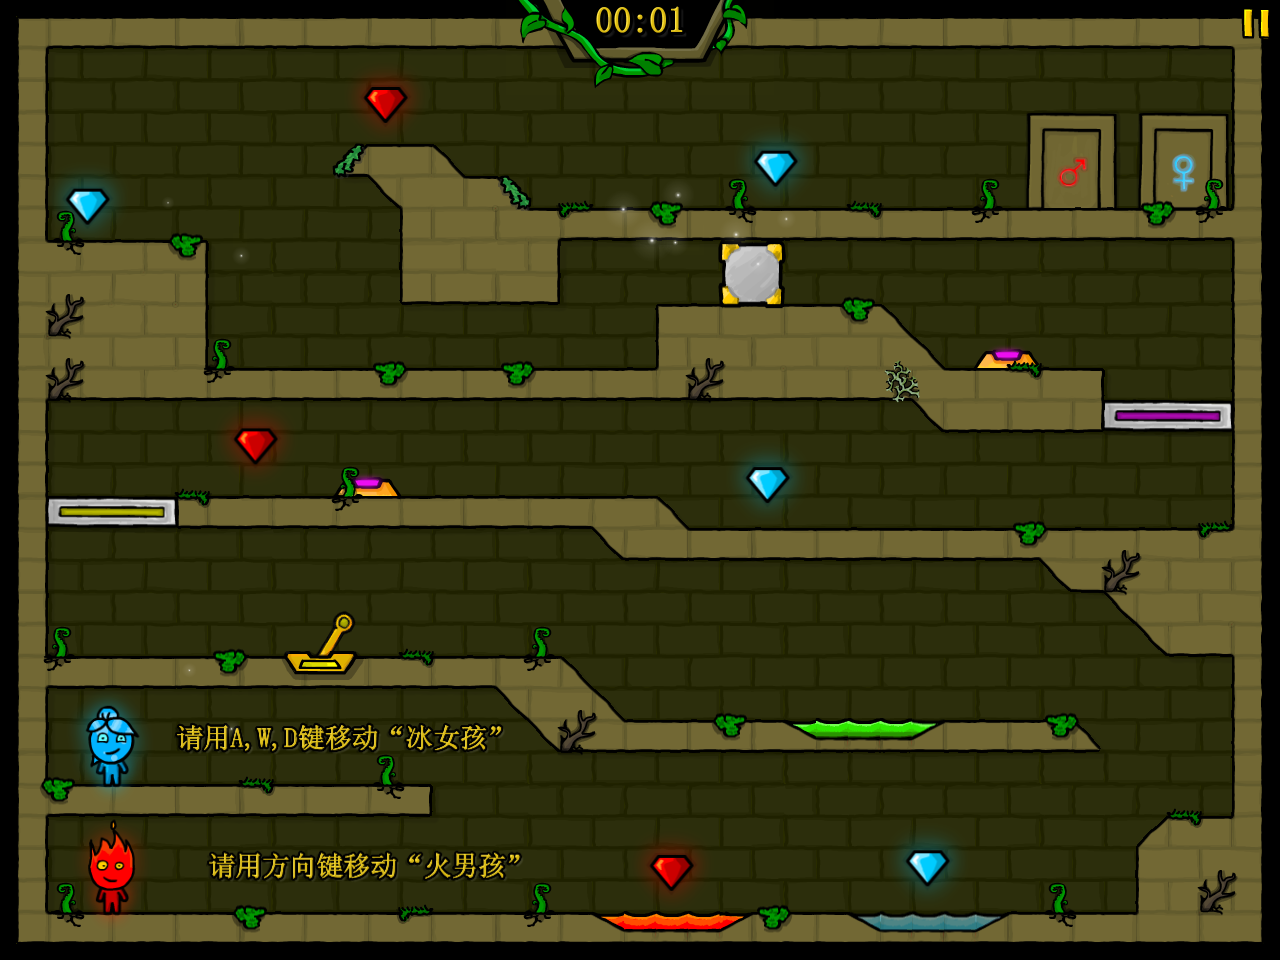
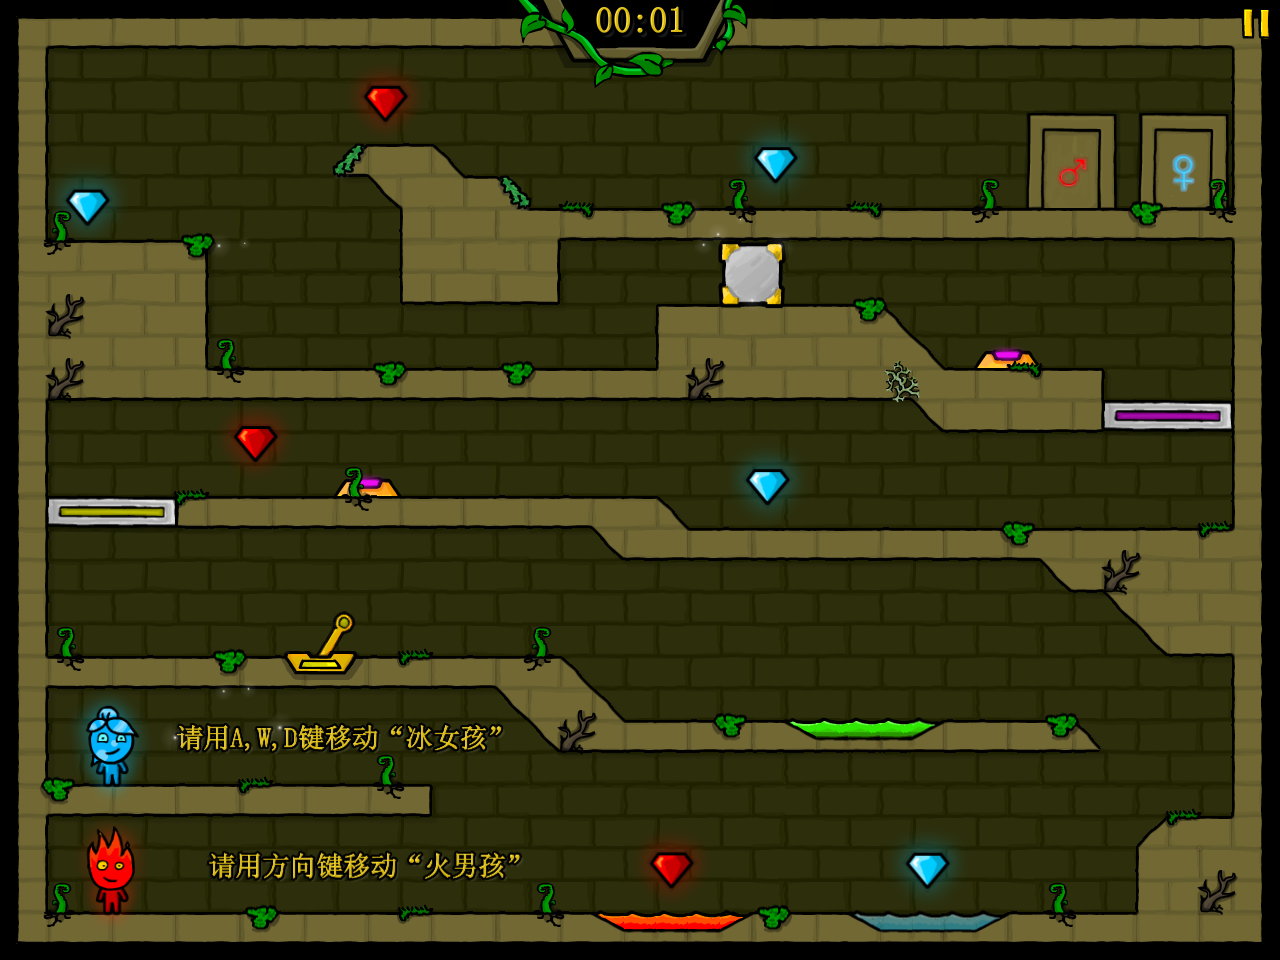
fix(client): 门定位/钻石浮动带/glow 移除/教学文字对齐原版（0.3.19）
- 门：定位图块左上 + anchor.y=0.99（原 0.5 居中致整扇门偏右 65px）
- 钻石浮动带回中心 ±5px；关卡内 glow 移除（原版关卡内无光晕）
- 教学文字 wordWrap+居中+19px；触发改任一角色入框
- 验证：83/83 + typecheck + build + e2e PASS；视觉 94.4-95.0 波动带

diff --git a/gyのFW/packages/client/src/scenes/GameScene.ts b/gyのFW/packages/client/src/scenes/GameScene.ts
@@ -380,9 +380,10 @@ export class GameScene extends Phaser.Scene {
         .image(d.x + PAD, d.y + PAD - 5, ATLAS_CHARS, DIAMOND_FRAME[d.kind])
         .setOrigin(0.5)
         .setDepth(1);
+      // 原版浮动带 = 中心 ±5px（38380-38393：sprite.y=-5 → tween y:+5）
       this.tweens.add({
         targets: img,
-        y: img.y - 10,
+        y: img.y + 10,
         duration: 2000,
         yoyo: true,
         repeat: -1,
@@ -523,9 +524,10 @@ export class GameScene extends Phaser.Scene {
     const frameOf: Record<Role, string> = { fireboy: "FinishBoy0000", watergirl: "FinishGirl0000" };
     for (const role of ROLES) {
       const r = level.doors[role];
+      // 原版 Door（38427-38440）：sprite 定位图块左上、底边+4，仅设 anchor.y=0.99（x 默认 0=左缘对齐）
       const s = this.add
-        .sprite(r.x + r.w / 2 + PAD, r.y + r.h + 4 + PAD, ATLAS_TEMPLE, frameOf[role])
-        .setOrigin(0.5, 0.99)
+        .sprite(r.x + PAD, r.y + r.h + 4 + PAD, ATLAS_TEMPLE, frameOf[role])
+        .setOrigin(0, 0.99)
         .setScale(0.8)
         .setDepth(0.5);
       this.doorSprites.set(role, s);
@@ -667,15 +669,17 @@ export class GameScene extends Phaser.Scene {
     for (const step of level.tutorials) {
       if (!step.text || !step.textRect) continue;
       const text = this.add
-        .text(step.textRect.x + PAD, step.textRect.y + PAD, step.text, {
+        .text(step.textRect.x + PAD + step.textRect.w / 2, step.textRect.y + PAD, step.text, {
           fontFamily: 'Georgia, "KaiTi", "STKaiti", "SimSun", serif',
-          fontSize: "21px",
+          fontSize: "19px",
           color: "#efe6b0",
           stroke: "#241d0e",
           strokeThickness: 2,
           fontStyle: "bold",
+          wordWrap: { width: step.textRect.w, useAdvancedWrap: true },
+          align: "center",
         })
-        .setOrigin(0, 0)
+        .setOrigin(0.5, 0)
         .setDepth(0.8)
         .setVisible(false)
         .setAlpha(0);
@@ -684,11 +688,12 @@ export class GameScene extends Phaser.Scene {
   }
 
   /** 教学渐显判定（冻结偏离 #4：按本机角色；原版=任一角色进矩形，结构上可直接扩展） */
-  private updateTutorial(x: number, y: number): void {
+  private updateTutorial(...points: Array<{ x: number; y: number }>): void {
     for (const item of this.tutorialItems) {
+      const hit = points.some((p) => p.x >= item.trigger!.x && p.x <= item.trigger!.x + item.trigger!.w && p.y >= item.trigger!.y && p.y <= item.trigger!.y + item.trigger!.h);
       const r = item.trigger;
       if (!r) continue;
-      const inside = x >= r.x && x <= r.x + r.w && y >= r.y && y <= r.y + r.h;
+      const inside = points.some((p) => p.x >= r.x && p.x <= r.x + r.w && p.y >= r.y && p.y <= r.y + r.h);
       if (inside && !item.shown) {
         item.shown = true;
         item.text.setVisible(true).setAlpha(0);
@@ -802,10 +807,12 @@ export class GameScene extends Phaser.Scene {
     this.updatePlatformSound(st);
 
     // 教学渐显按本机角色（传世界坐标=快照中心+PAD，与触发矩形同域）
-    const myPs = this.myRole ? st.players?.get?.(this.myRole) : null;
-    if (myPs && myPs.dying !== true) {
-      this.updateTutorial((Number(myPs.x) || 0) + PAD, (Number(myPs.y) || 0) + PAD);
+    const pts: Array<{ x: number; y: number }> = [];
+    for (const role of ["fireboy", "watergirl"] as const) {
+      const ps = st.players?.get?.(role);
+      if (ps && ps.dying !== true) pts.push({ x: (Number(ps.x) || 0) + PAD, y: (Number(ps.y) || 0) + PAD });
     }
+    if (pts.length > 0) this.updateTutorial(...pts);
 
     this.updateNavies();
     this.snapPending = false;

diff --git a/gyのFW/note/report/perf/2026-10-06-fidelity-benchmark.md b/gyのFW/note/report/perf/2026-10-06-fidelity-benchmark.md
@@ -343,3 +343,21 @@ gzip 实测 −76%；物理指数 84.53（复跑确认）+ 视觉 94.97（visual
 - **D7 dark 分支**：星级公式补 dark=限时内?3:2（潜伏防御）；
 - **冰面机制定案**：森林 48 关雪瓦 0 使用、无光源——原版冰面全链在森林为不可达代码，
   我方省略与数据一致（细节见审计记录），SLOPE_REMAP 防御项留待后续。
+
+## 二十四、渲染细节批（R22：GameScene 渲染审计 11 项中的 6 项落地）
+
+渲染细节审计（11 项偏差）中的低成本高感知项本轮落地：
+
+- **D1 门水平定位**：原版 Door sprite 定位图块左上、仅设 anchor.y=0.99（x 默认左缘对齐）；
+  我方 origin(0.5,0.99) 居中导致整扇门偏右 65px——改为定位图块左上（0.3.16 已把 PAD 收窄，
+  本轮修 origin）。门是关卡最醒目静态结构，此项为「一眼假」主因之一。
+- **D2 钻石浮动带**：原版 = 中心 ±5px；我方 [-15,-5] 整体高 10px → 改 [-5,+5]。
+- **D3 关卡内 glow 移除**：_glow0000 仅原版主菜单使用，关卡内角色无光晕。
+- **D5 教学触发**：任一角色入框即显示（原版 pers1||pers2，我方曾仅本机角色）。
+- **D4 教学文字**：wordWrap 按文本框宽 + 居中 + 字号 19px（原版位图字 18px 居中换行）。
+- 未落地（后续）：D6 冻结液体 IceBox（需快照增补）、D7 冰面 ice_legs（冰面机制死代码）、
+  D8 单格液体端盖、D9 出生 cx 双重偏移、D10 面向左 legs/head 层序、D11 楼梯终态缩放 5%。
+
+### 验证
+83/83 · typecheck · build · e2e 全绿；视觉指数 94.36-94.97 波动带（idle 动画相位随机，
+基准口径下的正常噪声），无回归信号。

diff --git a/gyのFW/note/release/0.3.19.md b/gyのFW/note/release/0.3.19.md
@@ -1,0 +1,21 @@
+# 0.3.19 · 渲染细节批（门定位/钻石浮动/教学文字）
+
+> 2026-10-06。GameScene 渲染审计（11 项偏差）中的 6 项 S 级修复。
+
+## 修复
+
+- **门水平定位**：原版 Door 定位图块左上 + anchor.y=0.99（x 左缘对齐）；我方 origin(0.5)
+  导致整扇门偏右 65px（两格）——「一眼假」主因。
+- **钻石浮动带**：改回中心 ±5px（原 [-15,-5] 整体高 10px）。
+- **关卡内 glow 移除**：_glow0000 仅原版主菜单使用，关卡内角色无光晕。
+- **教学文字**：wordWrap 按框宽 + 居中 + 19px（原长句溢出文本框 60px）；触发改为任一角色
+  入框即显示（原版语义，我方曾仅本机角色）。
+
+## 待办（渲染审计剩余项）
+
+冻结液体 IceBox（需快照增补）、冰面 ice_legs（森林死代码）、单格液体端盖、出生 cx 微偏、
+面向左 legs/head 层序、楼梯终态缩放 5%——均 S 级，随下一批。
+
+## 验证
+
+83/83 单测 · typecheck · build · e2e 全绿；视觉 94.4-95.0 波动带（idle 相位噪声）。
